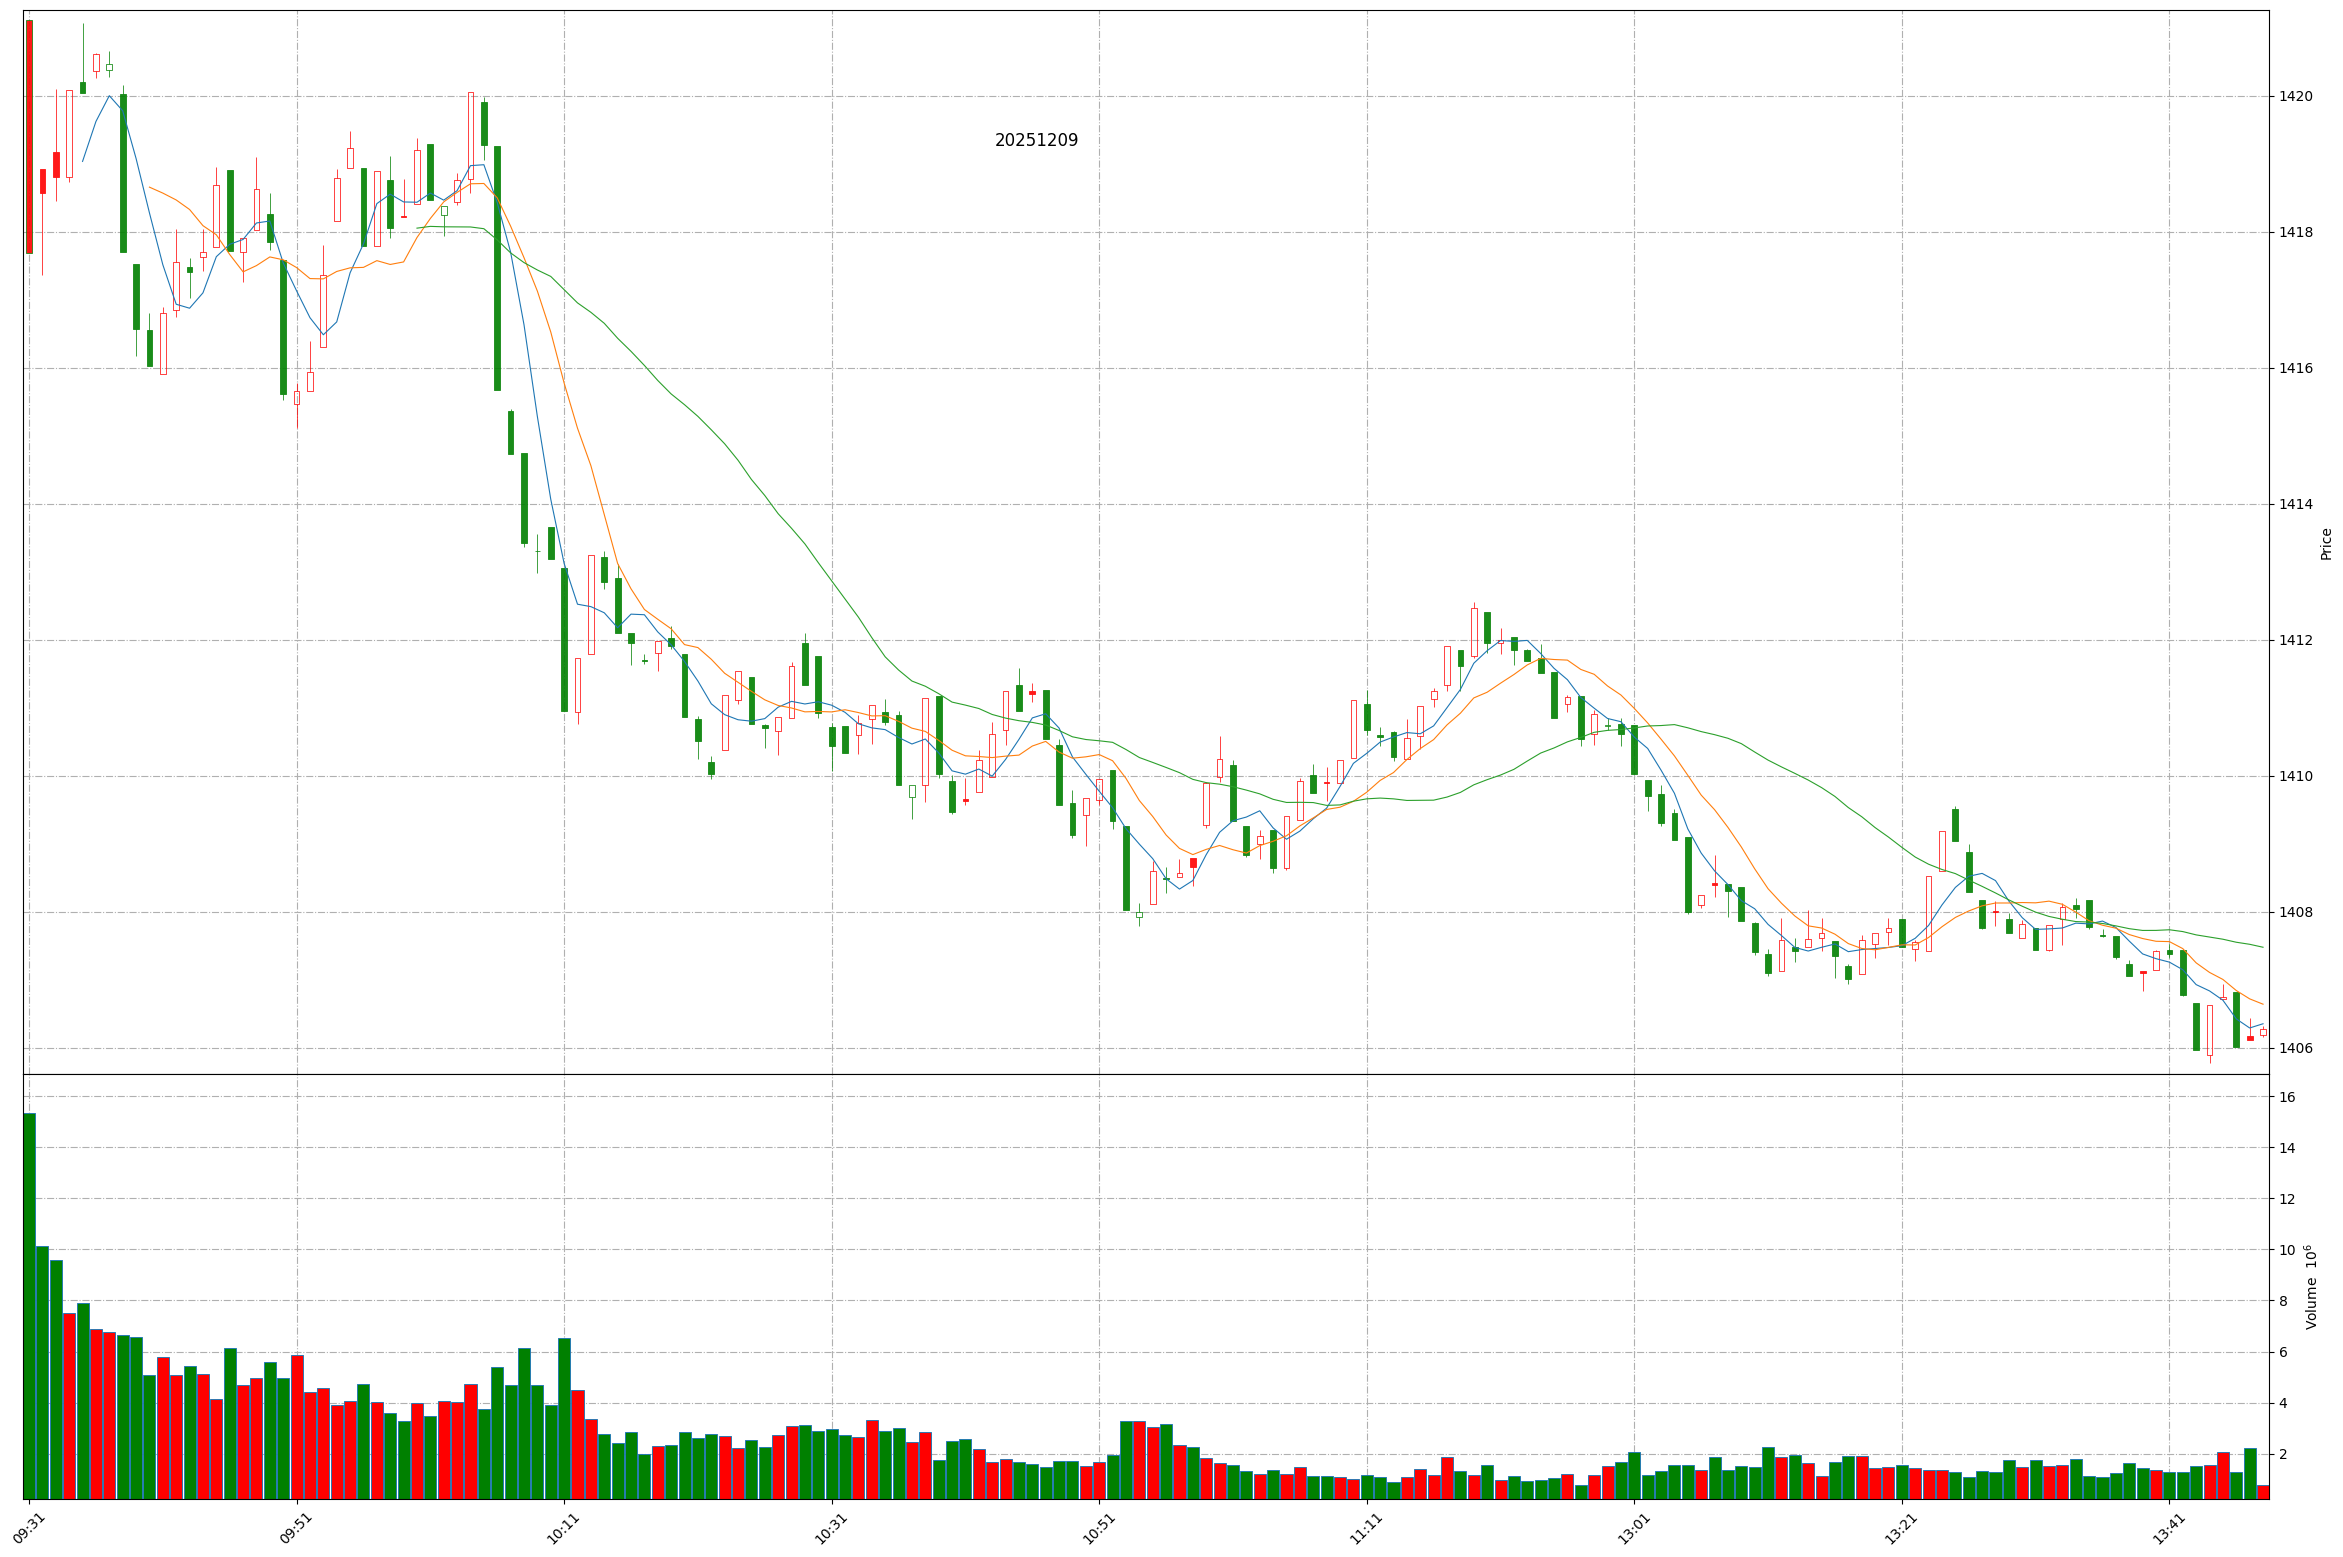
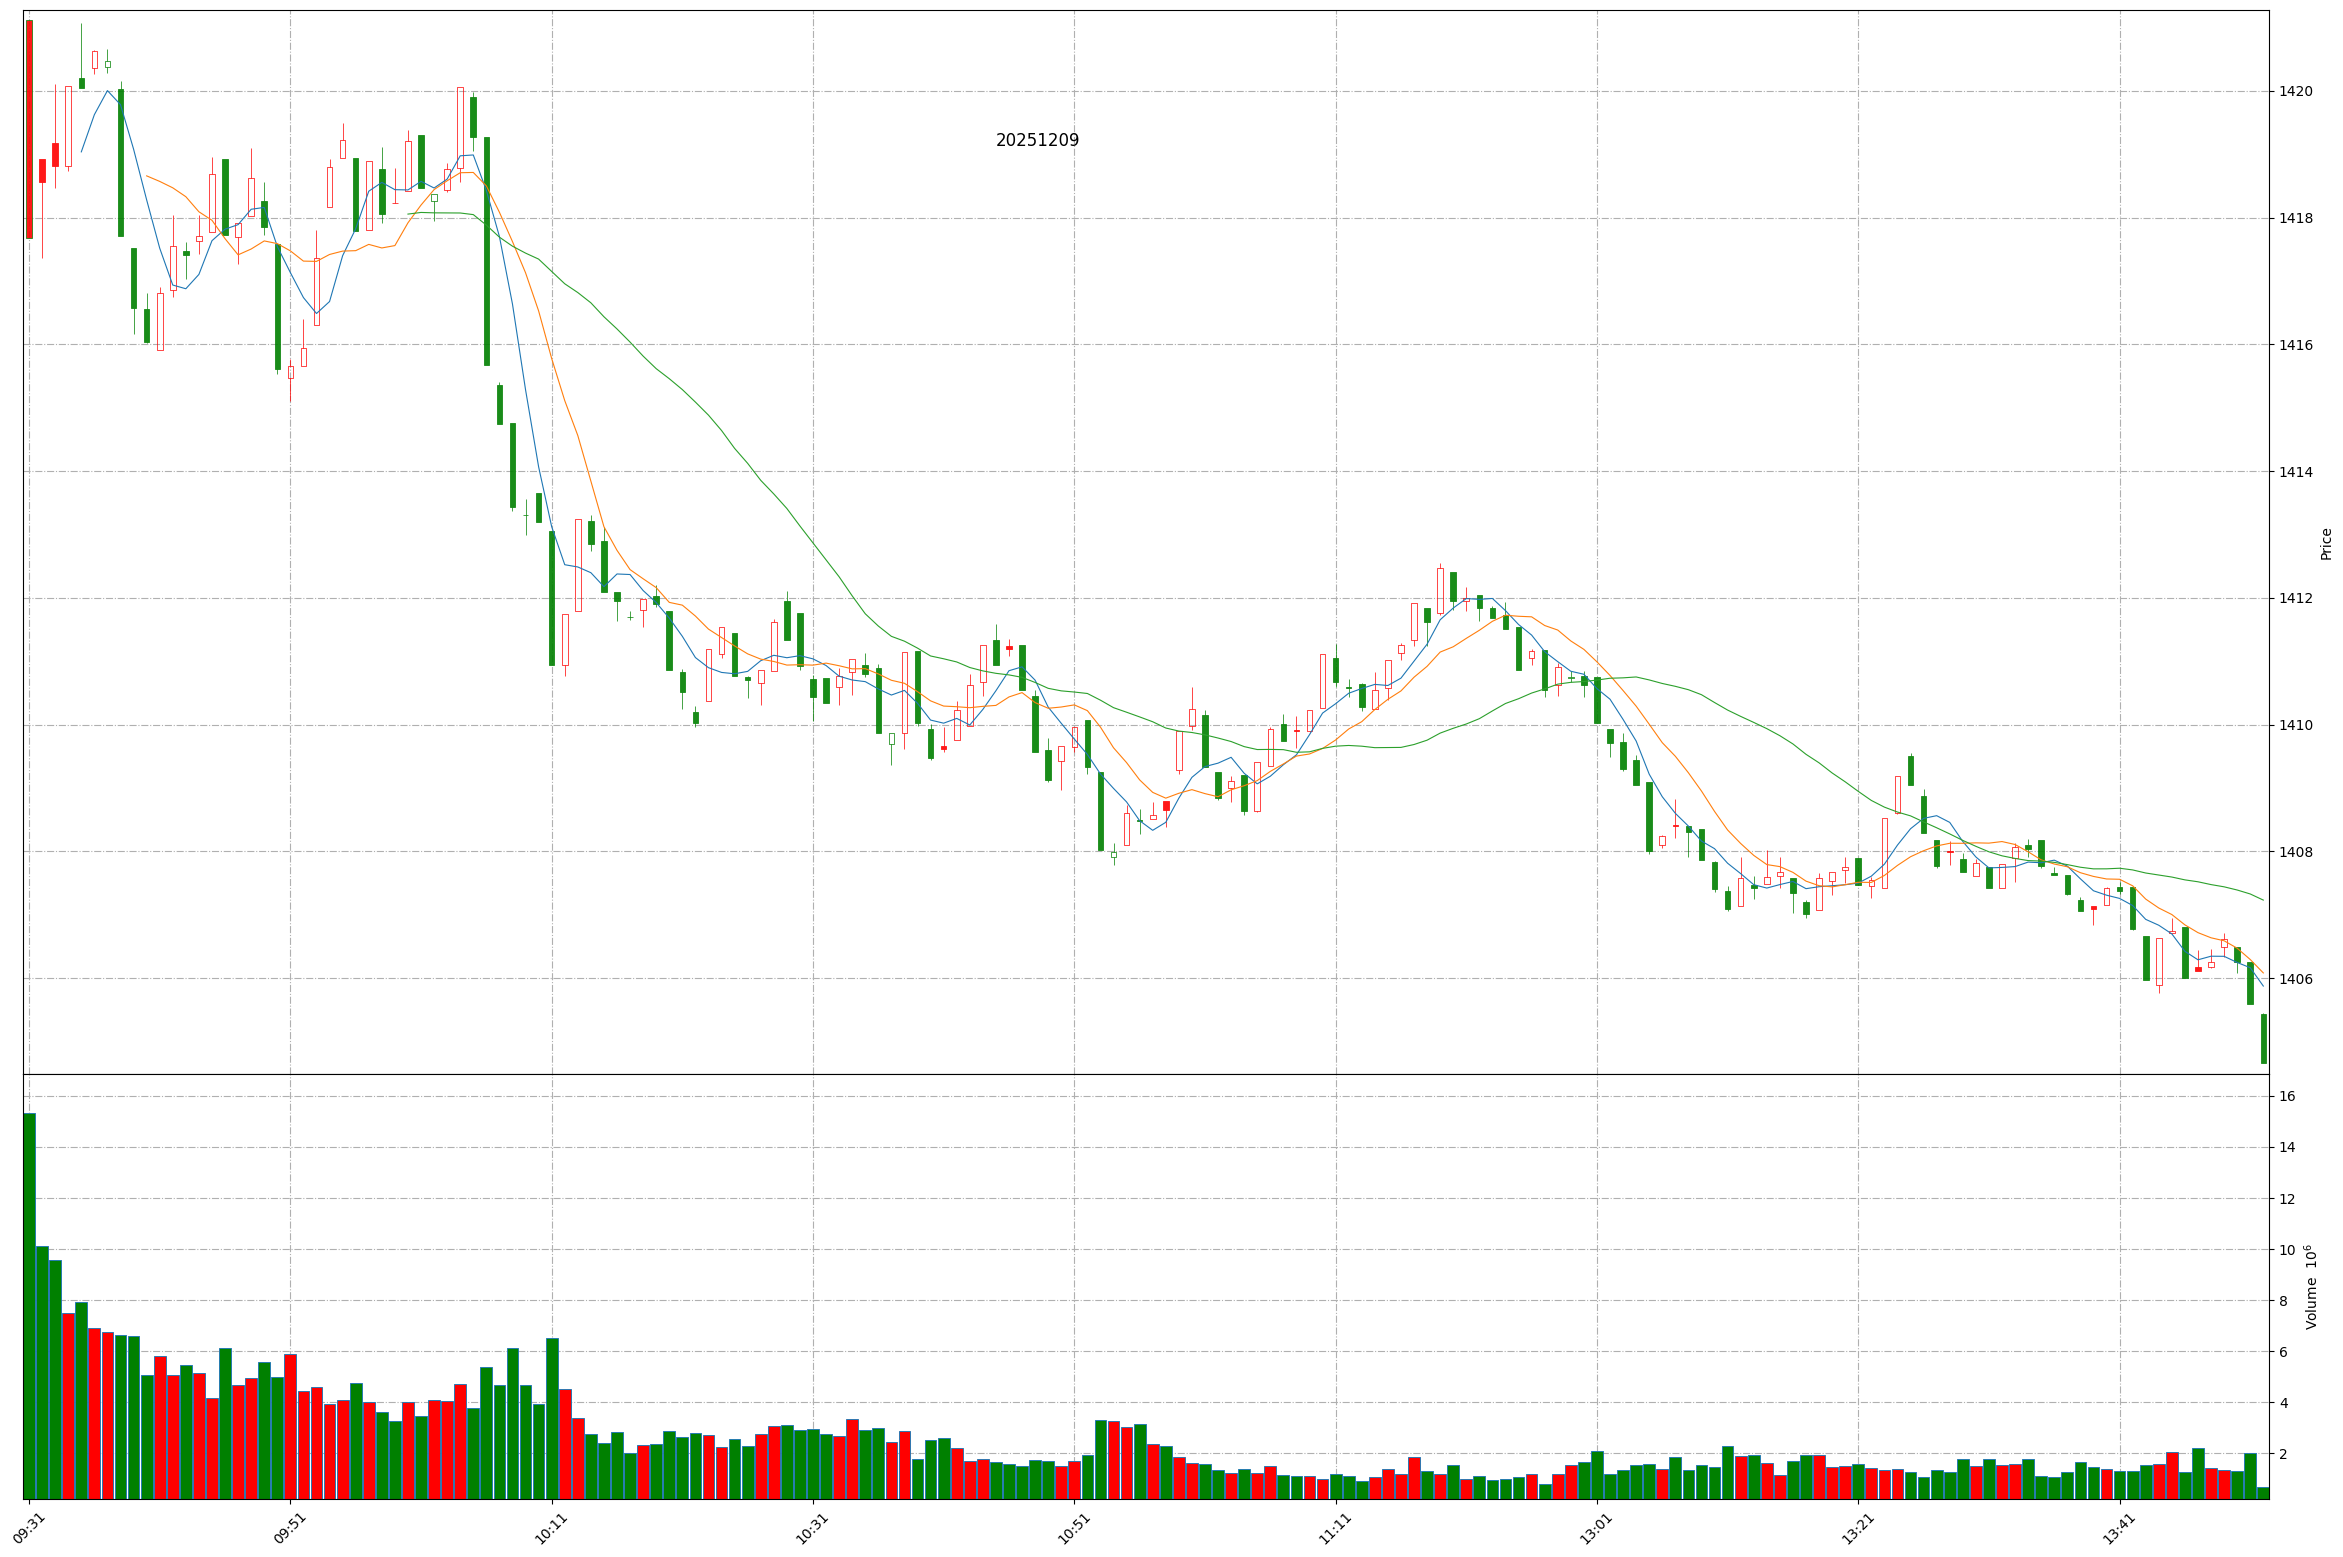
Github action update at 2025-12-09 13:51:45.

diff --git a/README.md b/README.md
@@ -1,11 +1,11 @@
 
 # Daily-A-share-market-quotes 每日 A 股指数（5min 更新）- 20251209
 
-### 上证指数 20251209 13:47
+### 上证指数 20251209 13:51
 ![](./fig/2025/12/20251209-sh000001.png)
 
-### 深证成指 20251209 13:47
+### 深证成指 20251209 13:51
 ![](./fig/2025/12/20251209-sz399001.png)
 
-### 北证50 20251209 13:47
+### 北证50 20251209 13:51
 ![](./fig/2025/12/20251209-bj899050.png)
